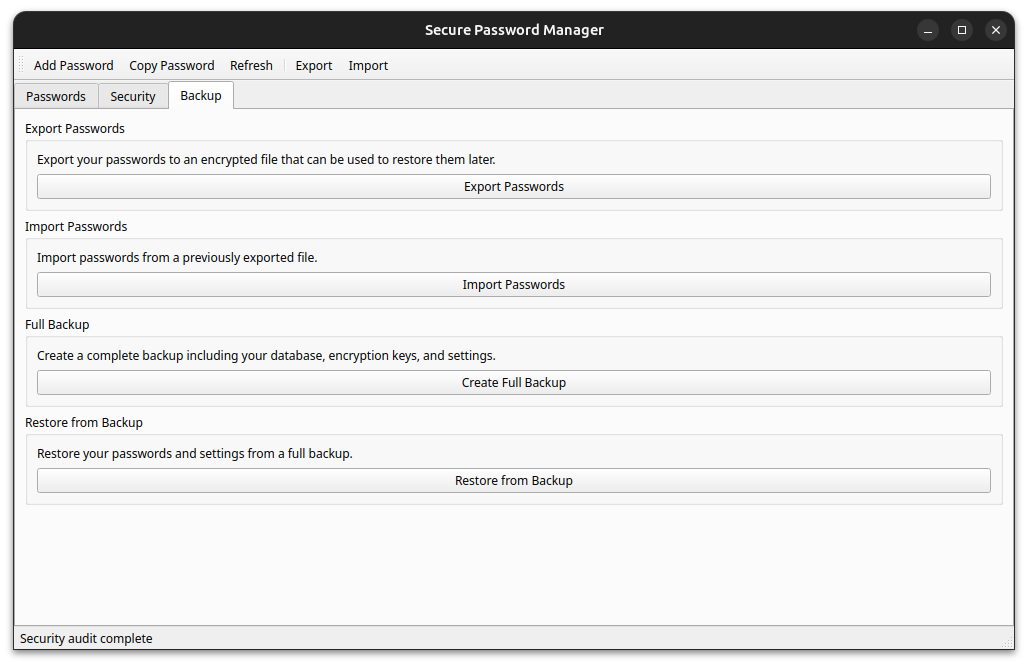
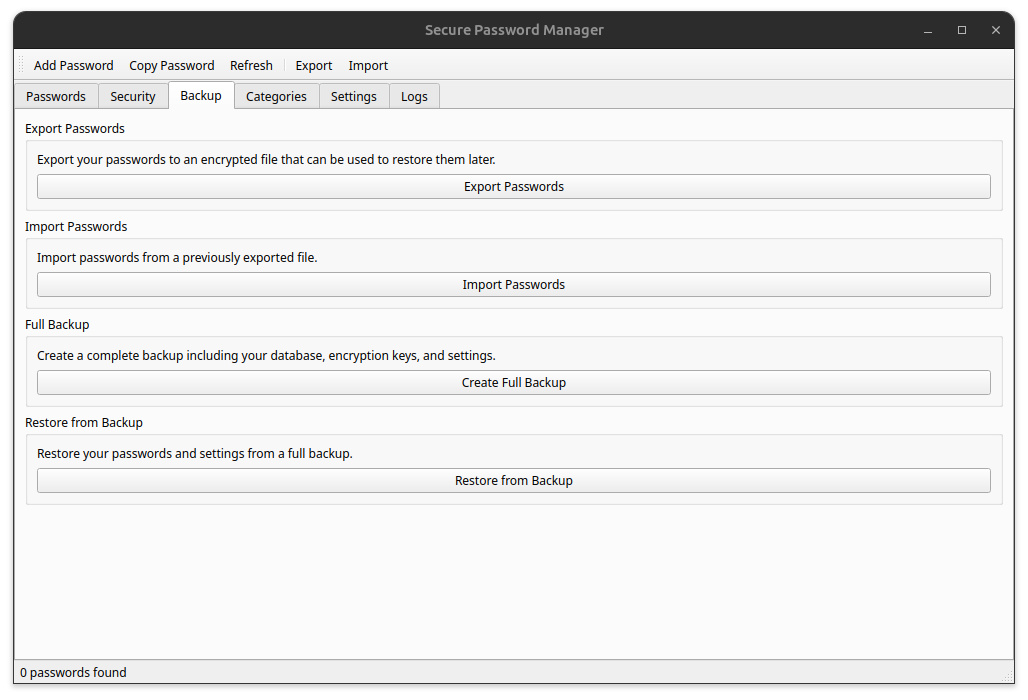
feat: Add first-time setup screenshots and enhance existing image assets in README

diff --git a/README.md b/README.md
@@ -164,33 +164,45 @@ The application uses XDG Base Directory Specification for organized data storage
 
 ## 📸 Screenshots
 
+### First Time Setup
+
+![First Time Setup](assets/screenshots/First_Time_Setup.png)
+![Setting Master Password](assets/screenshots/First_Time_Password.png)
+![Weak Password Warning](assets/screenshots/First_Time_Weak_Password_Warning.png)
+![Password Confirmation](assets/screenshots/First_Time_Password_Confirm.png)
+![Setup Complete](assets/screenshots/First_Time_Setup_Complete.png)
+
+### Login
+
+![Login Screen](assets/screenshots/Login.png)
+
 ### Home Screen
 
 ![Home Screen](assets/screenshots/Home.png)
 
-### Adding a Password
+### Password Management
 
-![Add Password](assets/screenshots/Add_Password.png)
+![Adding a Password](assets/screenshots/Add_Password.png)
+![Editing a Password](assets/screenshots/Edit_Password.png)
 
-### Editing a Password
+### Categories
 
-![Edit Password](assets/screenshots/Edit_Password.png)
+![Categories](assets/screenshots/Categories.png)
 
 ### Security Audit
 
 ![Security Audit](assets/screenshots/Security.png)
 
-### Backup Options
+### Backup & Restore
 
-![Backup](assets/screenshots/Backup.png)
+![Backup Options](assets/screenshots/Backup.png)
+![Exporting Passwords](assets/screenshots/Export.png)
+![Importing Passwords](assets/screenshots/Import.png)
 
-### Exporting Passwords
+### Settings & Logs
 
-![Export](assets/screenshots/Export.png)
-
-### Importing Passwords
-
-![Import](assets/screenshots/Import.png)
+![Settings](assets/screenshots/Settings.png)
+![Activity Logs](assets/screenshots/Logs.png)
 
 ## 🔒 How It Works
 
